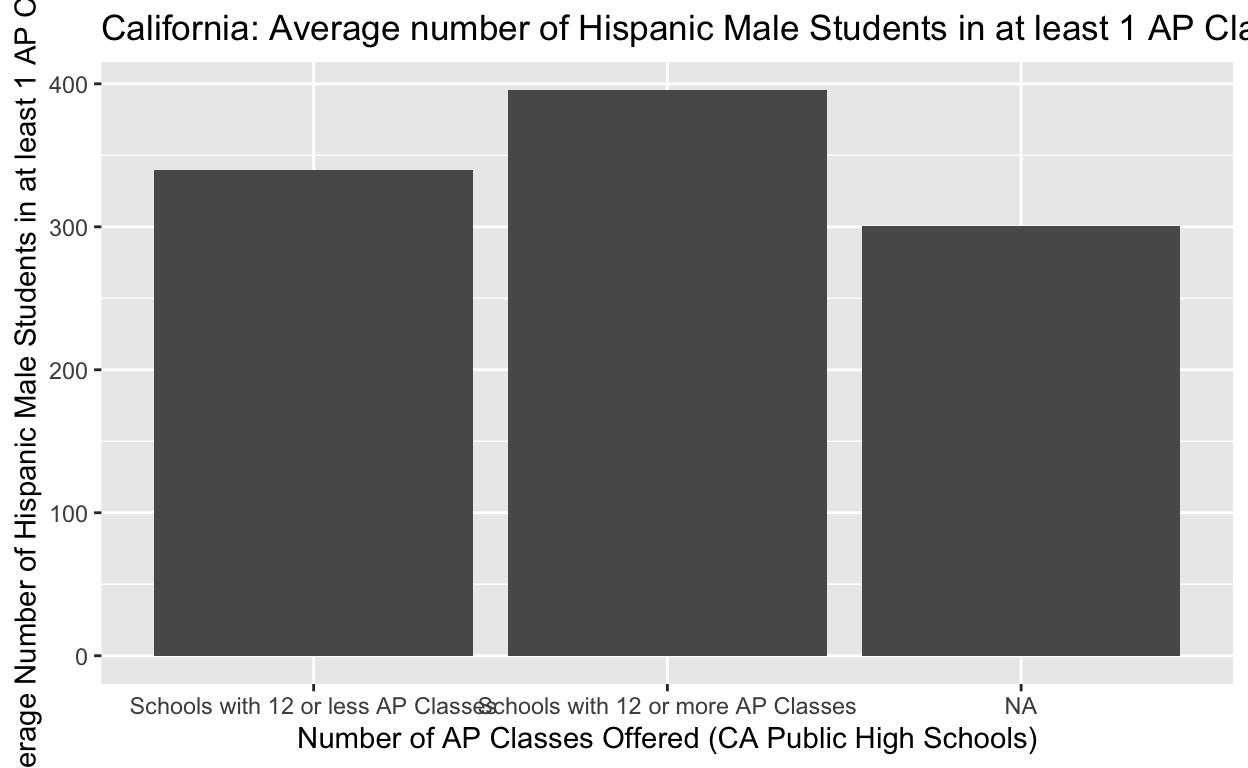
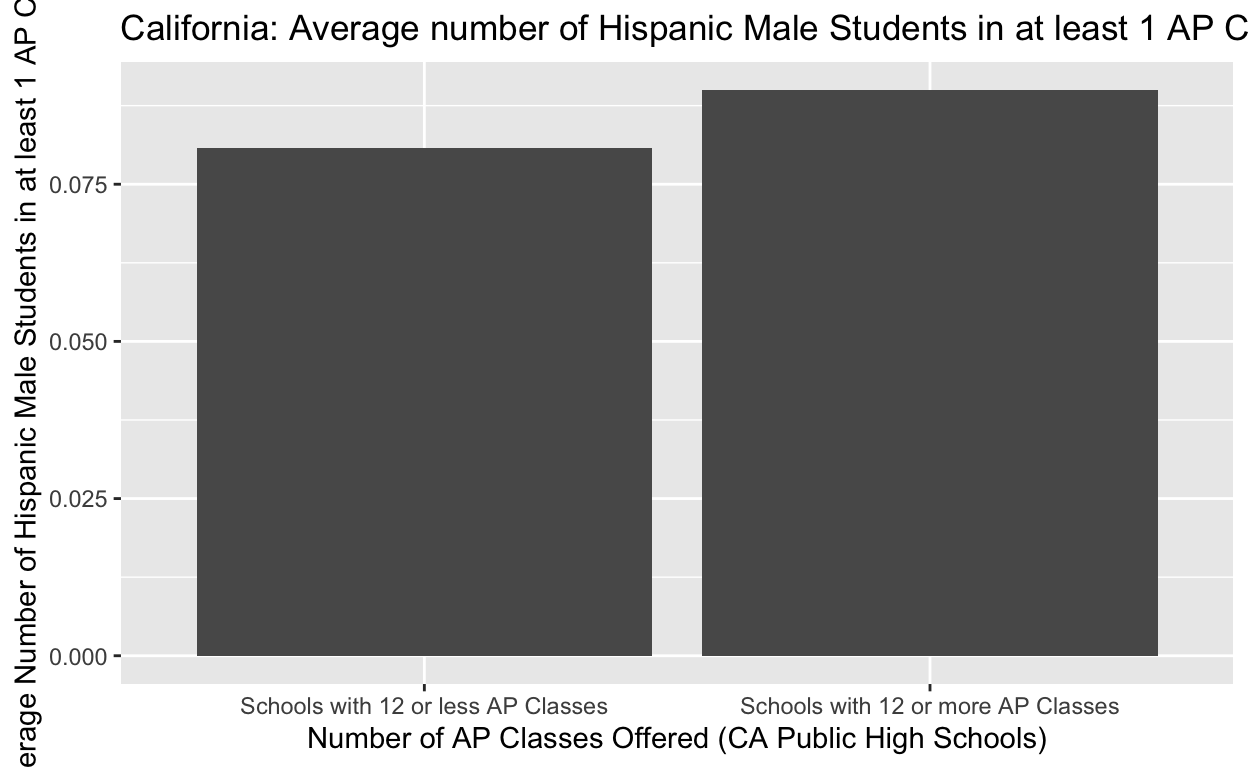
4.1

diff --git a/index.html b/index.html
@@ -1575,38 +1575,61 @@ code span.wa { color: #5e5e5e; font-style: italic; } /* Warning */
 <pre class="sourceCode r"><code class="sourceCode r"><span><span class='va'>subset</span> <span class='op'>&lt;-</span> <span class='va'>schools</span>  <span class='op'><a href='https://magrittr.tidyverse.org/reference/pipe.html'>%&gt;%</a></span> </span>
 <span>  <span class='fu'><a href='https://dplyr.tidyverse.org/reference/filter.html'>filter</a></span><span class='op'>(</span><span class='va'>SCH_GRADE_G09</span> <span class='op'>==</span> <span class='st'>"YES"</span> <span class='op'>&amp;</span> <span class='va'>SCH_GRADE_G10</span> <span class='op'>==</span> <span class='st'>"YES"</span> <span class='op'>&amp;</span> <span class='va'>SCH_GRADE_G11</span> <span class='op'>==</span> <span class='st'>"YES"</span> <span class='op'>&amp;</span> <span class='va'>SCH_GRADE_G12</span> <span class='op'>==</span> <span class='st'>"YES"</span> <span class='op'>&amp;</span>    <span class='va'>SCH_GRADE_G08</span> <span class='op'>==</span> <span class='st'>"NO"</span><span class='op'>)</span> </span>
 <span></span>
-<span><span class='va'>subset</span><span class='op'>[</span><span class='va'>subset</span> <span class='op'>==</span> <span class='op'>-</span><span class='fl'>9</span><span class='op'>]</span> <span class='op'>&lt;-</span> <span class='cn'>NA</span> </span>
+<span><span class='va'>subset</span><span class='op'>[</span><span class='va'>subset</span> <span class='op'>&lt;</span> <span class='fl'>0</span><span class='op'>]</span> <span class='op'>&lt;-</span> <span class='cn'>NA</span> </span>
 <span>  </span>
 <span><span class='fu'><a href='https://rdrr.io/r/stats/median.html'>median</a></span><span class='op'>(</span><span class='va'>subset</span><span class='op'>$</span><span class='va'>SCH_APCOURSES</span>, na.rm <span class='op'>=</span> <span class='cn'>TRUE</span><span class='op'>)</span> </span></code></pre>
 </div>
 <pre><code>[1] 12</code></pre>
 </div>
-<h2 id="final-project-milestone-3">Final Project Milestone 3</h2>
+<h2 id="final-project-milestone-4">Final Project Milestone 4</h2>
 <div class="layout-chunk" data-layout="l-body">
 <div class="sourceCode">
-<pre class="sourceCode r"><code class="sourceCode r"><span><span class='va'>schools</span><span class='op'>[</span><span class='va'>schools</span> <span class='op'>==</span> <span class='op'>-</span><span class='fl'>9</span><span class='op'>]</span> <span class='op'>&lt;-</span> <span class='cn'>NA</span></span>
+<pre class="sourceCode r"><code class="sourceCode r"><span><span class='co'>## schools[schools == -9] &lt;- NA</span></span>
 <span></span>
-<span><span class='va'>subset</span> <span class='op'>|&gt;</span></span>
+<span><span class='va'>subset</span> <span class='op'>&lt;-</span> <span class='va'>subset</span> <span class='op'>|&gt;</span> </span>
+<span>  <span class='fu'><a href='https://dplyr.tidyverse.org/reference/filter.html'>filter</a></span><span class='op'>(</span><span class='op'>!</span><span class='fu'><a href='https://rdrr.io/r/base/NA.html'>is.na</a></span><span class='op'>(</span><span class='va'>SCH_APEXAM_ONEORMORE_HP_M</span><span class='op'>)</span> <span class='op'>&amp;</span> <span class='op'>!</span><span class='fu'><a href='https://rdrr.io/r/base/NA.html'>is.na</a></span><span class='op'>(</span><span class='va'>SCH_APEXAM_ONEORMORE_HI_F</span><span class='op'>)</span><span class='op'>)</span> <span class='op'>|&gt;</span> </span>
+<span>  <span class='fu'><a href='https://dplyr.tidyverse.org/reference/mutate.html'>mutate</a></span><span class='op'>(</span>total_hispanic_students_AP <span class='op'>=</span> <span class='op'>(</span><span class='va'>SCH_APEXAM_ONEORMORE_HP_M</span> <span class='op'>+</span> <span class='va'>SCH_APEXAM_ONEORMORE_HI_F</span><span class='op'>)</span>,</span>
+<span>         total_hispanic_student_enrollment <span class='op'>=</span> <span class='op'>(</span><span class='va'>SCH_ENR_HI_M</span> <span class='op'>+</span> <span class='va'>SCH_ENR_HI_F</span><span class='op'>)</span><span class='op'>)</span> <span class='op'>|&gt;</span> </span>
+<span>  <span class='fu'><a href='https://dplyr.tidyverse.org/reference/mutate.html'>mutate</a></span><span class='op'>(</span>school_level_hisp_m_AP_rate <span class='op'>=</span> <span class='va'>total_hispanic_students_AP</span><span class='op'>/</span><span class='va'>total_hispanic_student_enrollment</span><span class='op'>)</span></span>
+<span> </span>
+<span></span>
+<span><span class='va'>subset_hispanic</span> <span class='op'>&lt;-</span> <span class='va'>subset</span> <span class='op'>|&gt;</span></span>
 <span>  <span class='fu'><a href='https://dplyr.tidyverse.org/reference/mutate.html'>mutate</a></span><span class='op'>(</span></span>
 <span>    AP_distribution <span class='op'>=</span> <span class='fu'><a href='https://dplyr.tidyverse.org/reference/case_when.html'>case_when</a></span><span class='op'>(</span></span>
-<span>    <span class='va'>SCH_APCOURSES</span> <span class='op'>&gt;=</span> <span class='fl'>12</span> <span class='op'>~</span> <span class='st'>"Schools with 12 or more AP Classes"</span>, </span>
-<span>    <span class='va'>SCH_APCOURSES</span> <span class='op'>&lt;=</span> <span class='fl'>12</span> <span class='op'>~</span> <span class='st'>"Schools with 12 or less AP Classes"</span>, </span>
-<span>    <span class='va'>SCH_APCOURSES</span> <span class='op'>==</span> <span class='fl'>0</span> <span class='op'>~</span> <span class='st'>"No AP Classes"</span>, </span>
-<span>    <span class='cn'>TRUE</span> <span class='op'>~</span> <span class='cn'>NA</span><span class='op'>)</span><span class='op'>)</span> <span class='op'>|&gt;</span></span>
-<span>  </span>
-<span>  <span class='fu'><a href='https://dplyr.tidyverse.org/reference/mutate.html'>mutate</a></span><span class='op'>(</span></span>
-<span>    Average_APClasses <span class='op'>=</span> <span class='fu'><a href='https://rdrr.io/r/base/mean.html'>mean</a></span><span class='op'>(</span><span class='va'>SCH_APEXAM_ONEORMORE_HP_M</span>, na.rm <span class='op'>=</span> <span class='cn'>TRUE</span><span class='op'>)</span> </span>
-<span>  <span class='op'>)</span> <span class='op'>|&gt;</span></span>
-<span>  <span class='fu'><a href='https://dplyr.tidyverse.org/reference/group_by.html'>group_by</a></span><span class='op'>(</span><span class='va'>AP_distribution</span><span class='op'>)</span> <span class='op'>|&gt;</span></span>
-<span>  <span class='fu'><a href='https://ggplot2.tidyverse.org/reference/ggplot.html'>ggplot</a></span><span class='op'>(</span>mapping <span class='op'>=</span> <span class='fu'><a href='https://ggplot2.tidyverse.org/reference/aes.html'>aes</a></span><span class='op'>(</span>x <span class='op'>=</span> <span class='va'>AP_distribution</span>, y <span class='op'>=</span> <span class='va'>Average_APClasses</span> <span class='op'>)</span><span class='op'>)</span> <span class='op'>+</span></span>
+<span>      <span class='va'>SCH_APCOURSES</span> <span class='op'>&gt;=</span> <span class='fl'>12</span> <span class='op'>~</span> <span class='st'>"Schools with 12 or more AP Classes"</span>, </span>
+<span>      <span class='va'>SCH_APCOURSES</span> <span class='op'>&lt;</span> <span class='fl'>12</span> <span class='op'>&amp;</span> <span class='va'>SCH_APCOURSES</span> <span class='op'>!=</span> <span class='fl'>0</span> <span class='op'>~</span> <span class='st'>"Schools with 12 or less AP Classes"</span>, </span>
+<span>      <span class='fu'><a href='https://rdrr.io/r/base/NA.html'>is.na</a></span><span class='op'>(</span><span class='va'>SCH_APCOURSES</span><span class='op'>)</span> <span class='op'>~</span> <span class='st'>"No AP Classes"</span><span class='op'>)</span><span class='op'>)</span> <span class='op'>|&gt;</span></span>
+<span>  <span class='fu'><a href='https://dplyr.tidyverse.org/reference/group_by.html'>group_by</a></span><span class='op'>(</span><span class='va'>AP_distribution</span><span class='op'>)</span> <span class='op'><a href='https://magrittr.tidyverse.org/reference/pipe.html'>%&gt;%</a></span> </span>
+<span>  <span class='fu'><a href='https://dplyr.tidyverse.org/reference/summarise.html'>summarize</a></span><span class='op'>(</span>Proportion_APClasses <span class='op'>=</span> <span class='fu'><a href='https://rdrr.io/r/base/mean.html'>mean</a></span><span class='op'>(</span><span class='va'>school_level_hisp_m_AP_rate</span>, na.rm <span class='op'>=</span> <span class='cn'>TRUE</span><span class='op'>)</span><span class='op'>)</span> <span class='op'>|&gt;</span></span>
+<span>  <span class='fu'><a href='https://ggplot2.tidyverse.org/reference/ggplot.html'>ggplot</a></span><span class='op'>(</span>mapping <span class='op'>=</span> <span class='fu'><a href='https://ggplot2.tidyverse.org/reference/aes.html'>aes</a></span><span class='op'>(</span>x <span class='op'>=</span> <span class='va'>AP_distribution</span>, y <span class='op'>=</span> <span class='va'>Proportion_APClasses</span> <span class='op'>)</span><span class='op'>)</span> <span class='op'>+</span></span>
 <span>  <span class='fu'><a href='https://ggplot2.tidyverse.org/reference/geom_bar.html'>geom_col</a></span><span class='op'>(</span><span class='op'>)</span> <span class='op'>+</span></span>
 <span>  <span class='fu'><a href='https://ggplot2.tidyverse.org/reference/labs.html'>labs</a></span><span class='op'>(</span>x <span class='op'>=</span> <span class='st'>"Number of AP Classes Offered (CA Public High Schools)"</span>,</span>
 <span>       y <span class='op'>=</span> <span class='st'>"Average Number of Hispanic Male Students in at least 1 AP Class"</span>,</span>
-<span>       title <span class='op'>=</span> <span class='st'>"California: Average number of Hispanic Male Students in at least 1 AP Class"</span><span class='op'>)</span></span></code></pre>
+<span>       title <span class='op'>=</span> <span class='st'>"California: Average number of Hispanic Male Students in at least 1 AP Class"</span><span class='op'>)</span></span>
+<span><span class='va'>subset_hispanic</span></span></code></pre>
 </div>
-<p><img src="index_files/figure-html5/unnamed-chunk-3-1.png" width="624" /></p>
+<img src="index_files/figure-html5/unnamed-chunk-3-1.png" width="624" />
+<div class="sourceCode">
+<pre class="sourceCode r"><code class="sourceCode r"><span><span class='va'>subset_groups</span> <span class='op'>&lt;-</span> <span class='va'>subset</span> <span class='op'>|&gt;</span></span>
+<span>  <span class='fu'><a href='https://dplyr.tidyverse.org/reference/mutate.html'>mutate</a></span><span class='op'>(</span></span>
+<span>    AP_distribution <span class='op'>=</span> <span class='fu'><a href='https://dplyr.tidyverse.org/reference/case_when.html'>case_when</a></span><span class='op'>(</span></span>
+<span>      <span class='va'>SCH_APCOURSES</span> <span class='op'>&gt;=</span> <span class='fl'>12</span> <span class='op'>~</span> <span class='st'>"Schools with 12 or more AP Classes"</span>, </span>
+<span>      <span class='va'>SCH_APCOURSES</span> <span class='op'>&lt;</span> <span class='fl'>12</span> <span class='op'>&amp;</span> <span class='va'>SCH_APCOURSES</span> <span class='op'>!=</span> <span class='fl'>0</span> <span class='op'>~</span> <span class='st'>"Schools with 12 or less AP Classes"</span>, </span>
+<span>      <span class='fu'><a href='https://rdrr.io/r/base/NA.html'>is.na</a></span><span class='op'>(</span><span class='va'>SCH_APCOURSES</span><span class='op'>)</span> <span class='op'>~</span> <span class='st'>"No AP Classes"</span><span class='op'>)</span><span class='op'>)</span> <span class='op'>|&gt;</span></span>
+<span>  <span class='fu'><a href='https://dplyr.tidyverse.org/reference/group_by.html'>group_by</a></span><span class='op'>(</span><span class='va'>AP_distribution</span><span class='op'>)</span> <span class='op'><a href='https://magrittr.tidyverse.org/reference/pipe.html'>%&gt;%</a></span> </span>
+<span>  <span class='fu'><a href='https://dplyr.tidyverse.org/reference/summarise.html'>summarize</a></span><span class='op'>(</span>Proportion_APClasses <span class='op'>=</span> <span class='fu'><a href='https://rdrr.io/r/base/mean.html'>mean</a></span><span class='op'>(</span><span class='va'>school_level_hisp_m_AP_rate</span>, na.rm <span class='op'>=</span> <span class='cn'>TRUE</span><span class='op'>)</span><span class='op'>)</span> <span class='op'>|&gt;</span> </span>
+<span>  <span class='fu'><a href='https://tidyr.tidyverse.org/reference/pivot_wider.html'>pivot_wider</a></span><span class='op'>(</span>names_from <span class='op'>=</span> <span class='va'>AP_distribution</span>, values_from <span class='op'>=</span> <span class='va'>Proportion_APClasses</span><span class='op'>)</span> <span class='op'>|&gt;</span> </span>
+<span>  <span class='fu'><a href='https://dplyr.tidyverse.org/reference/mutate.html'>mutate</a></span><span class='op'>(</span>ATE <span class='op'>=</span> <span class='va'>`Schools with 12 or more AP Classes`</span> <span class='op'>-</span> <span class='va'>`Schools with 12 or less AP Classes`</span><span class='op'>)</span></span>
+<span></span>
+<span><span class='va'>subset_groups</span></span></code></pre>
 </div>
-<div class="sourceCode" id="cb3"><pre class="sourceCode r distill-force-highlighting-css"><code class="sourceCode r"></code></pre></div>
+<pre><code># A tibble: 1 × 3
+  `Schools with 12 or less AP Classes` Schools with 12 or mo…¹     ATE
+                                 &lt;dbl&gt;                   &lt;dbl&gt;   &lt;dbl&gt;
+1                               0.0808                  0.0900 0.00916
+# ℹ abbreviated name: ¹`Schools with 12 or more AP Classes`</code></pre>
+</div>
+<div class="sourceCode" id="cb4"><pre class="sourceCode r distill-force-highlighting-css"><code class="sourceCode r"></code></pre></div>
 <!--radix_placeholder_article_footer-->
 <!--/radix_placeholder_article_footer-->
 </div>
